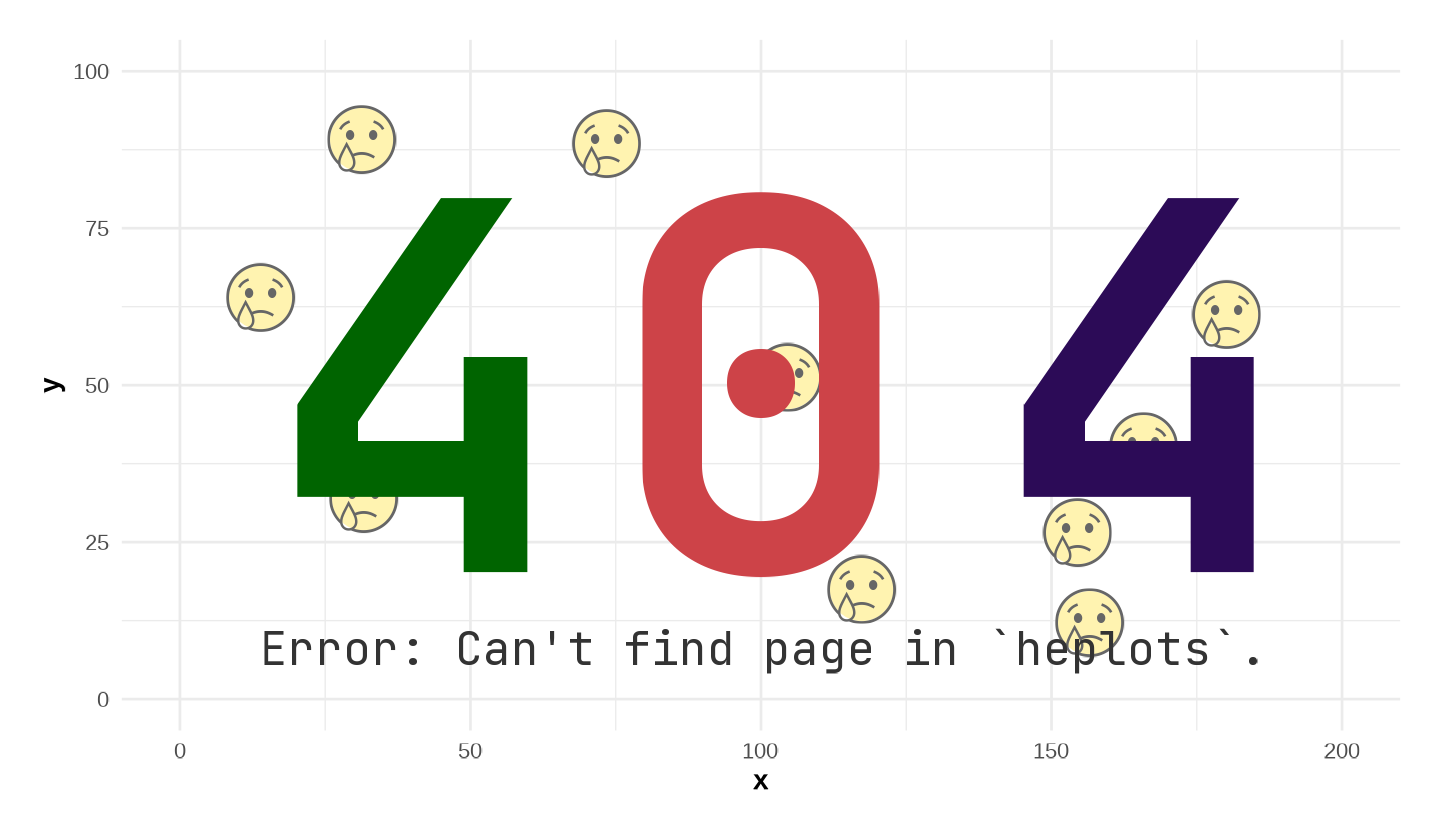
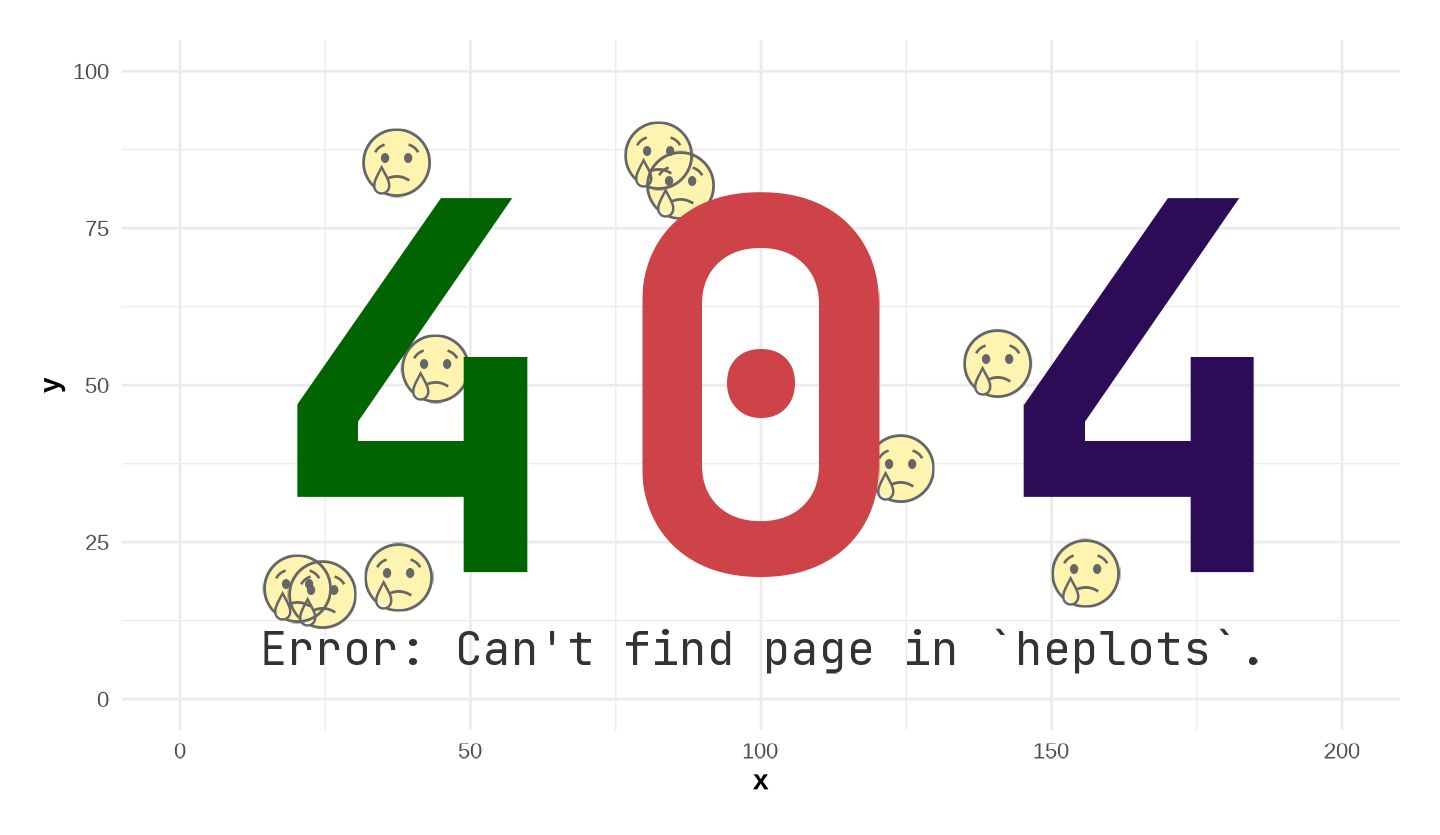
Fix 404 page ordering bug: pkgdown_404_install() now runs init_site()
pkgdown::build_home()/build_404() were found to overwrite docs/404.html
regardless of the .github/404.md marker, so the custom page only stuck
if pkgdown::init_site() ran afterward. Now done automatically at the
end of pkgdown_404_install() (found while installing this in HistData).

diff --git a/docs/404.html b/docs/404.html
@@ -1,9 +1,8 @@
 <!DOCTYPE html>
 <html lang="en">
 <head>
-<meta http-equiv="Content-Type" content="text/html; charset=UTF-8">
 <meta charset="utf-8">
-<title>Page not found · heplots</title>
+<title>Page not found &middot; heplots</title>
 <style>
   body {
     margin: 0;
@@ -26,6 +25,7 @@
 </style>
 </head>
 <body>
-  <img src="https://friendly.github.io/heplots/404.png" alt="404 - page not found"><a href="https://friendly.github.io/heplots/index.html">Take me home</a>
+  <img src="404.png" alt="404 - page not found">
+  <a href="index.html">Take me home</a>
 </body>
 </html>
